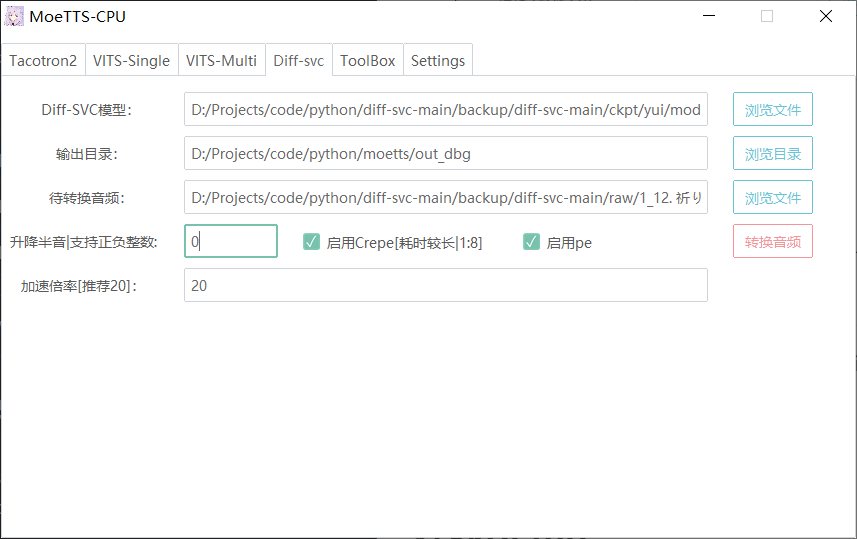
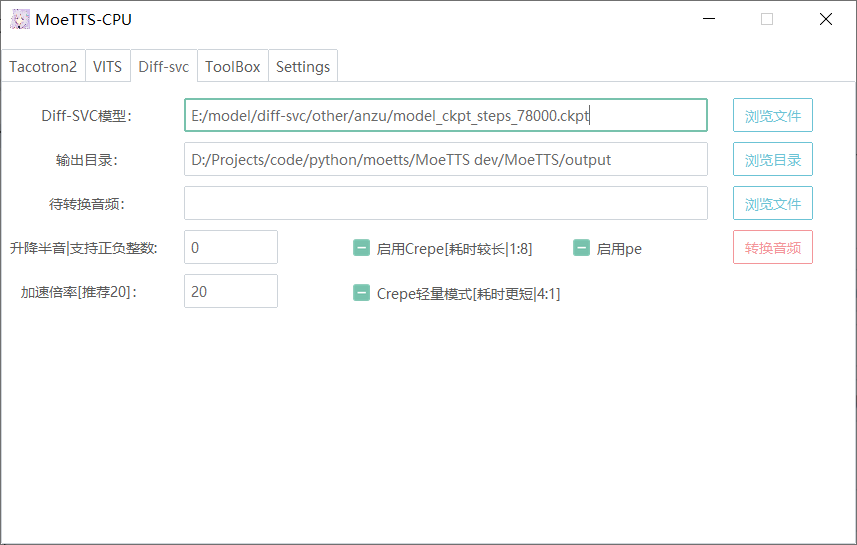
update readme for 1.2.5

diff --git a/README.md b/README.md
@@ -13,6 +13,15 @@ Speech synthesis model repo for galgame characters based on Tacotron2 , Hifigan 
 
 ## 近期更新
 
+1.2.5：
+
+> 1. 规范diff_svc import
+> 2. 精简VITS与Tacotron2代码并移除了matplotlib, tensorflow依赖
+> 3. 删除不必要导入及依赖，加快启动速度
+> 4. diff svc增加Crepe轻量模型
+> 5. 使用两种编译器（pyinstaller, nuitka）
+> 6. diff svc音频处理采样类型换为fft
+
 1.2.4：
 
 >1. 增加最近模型与输出路径记录，方便下次打开继续。
@@ -110,14 +119,16 @@ VITS特殊说明
 
 ### diff-svc
 
-![diff-svc gui](./assets/diff_svc.png)
+![diff_svc_gui](./assets/diff_svc.png)
 
 参数说明：
 
 1. 升降半音：默认为0，支持正负整数输入，单位为半音
-2. 启用Crepe：该选项可降噪音频，启用后CPU耗时较高，越为原音频时长8倍，建议合成最终版本再开启，干净的音频无需开启。
-3. 加速倍率：默认为20，耗时约1:3，预览可使用100，耗时约1：1（该设置会影响音频质量）
-4. 待转换音频：wav或ogg纯人声音频，转换后为模型角色音色。
+2. 启用Crepe：该选项可降噪音频，启用后CPU耗时较高，约为原音频时长8倍，建议合成最终版本再开启，干净的音频无需开启。
+3. Crepe轻量模式：在启用Crepe的前提下，勾选此选项后Crepe使用Tiny模型，耗时更短，约为原音频时长1/4。
+4. 加速倍率：默认为20，耗时约1:3，预览可使用100，耗时约1：1（该设置会影响音频质量）
+5. 加速倍率：默认为20，耗时约1:3，预览可使用100，耗时约1：1（该设置会影响音频质量）
+6. 待转换音频：wav或ogg纯人声音频，转换后为模型角色音色。
 
 ## 在线Demo
 

diff --git a/README_en.md b/README_en.md
@@ -13,6 +13,17 @@ Speech synthesis model repo for galgame characters based on Tacotron2, Hifigan a
 
 ## Latest Updates
 
+1.2.5：
+
+> 1. Improve diff svc code.
+> 2. Simplify VITS and Tacotron2 code and remove matplotlib, tensorflow dependencies.
+> 3. Remove unnecessary imports and dependencies.
+> 4. Crepe can toggle between full and tiny models.
+> 5. Added nuitka compiled distribution.
+> 6. Modified the resampling type used by diffsvc when processing audio sample rates and remove numba dependency. (For nuitka to work.)
+>
+> A standalone language file and related settings will be available later to support other languages.
+
 1.2.4：
 
 >1. Add recent use history.
@@ -115,6 +126,7 @@ Setting Instructions:
 2. 启用Crepe(Enable Crepe)：Improved audio quality when enabled, but will take longer.
 3. 加速倍率(Acceleration ratio)：Default is 20, higher values will infer faster, but may affect quality.
 4. 待转换音频(Input audio)：wav or ogg file with vocals only.
+5. Crepe轻量模式(Crepe Tiny): With Crepe enabled, Crepe uses Tiny models when this option is checked and takes less time.
 
 ## Online Demo
 
